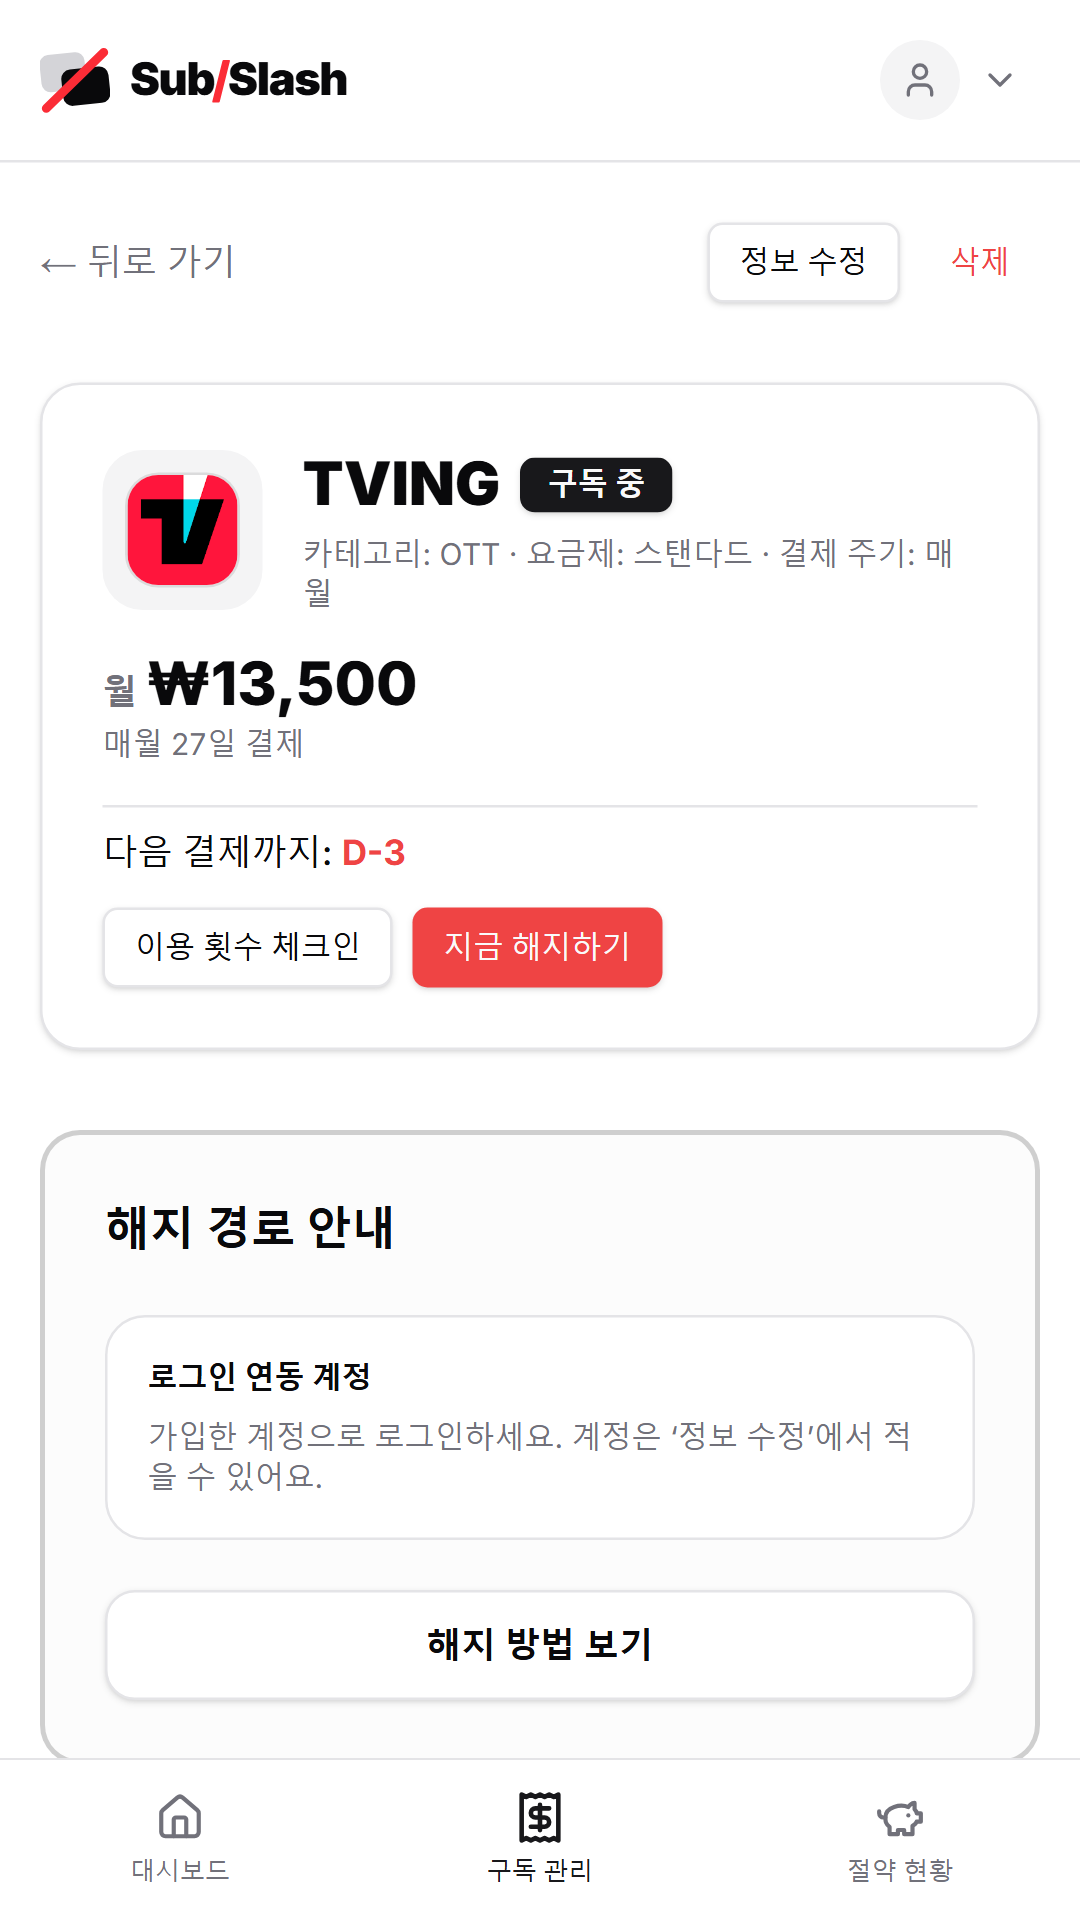
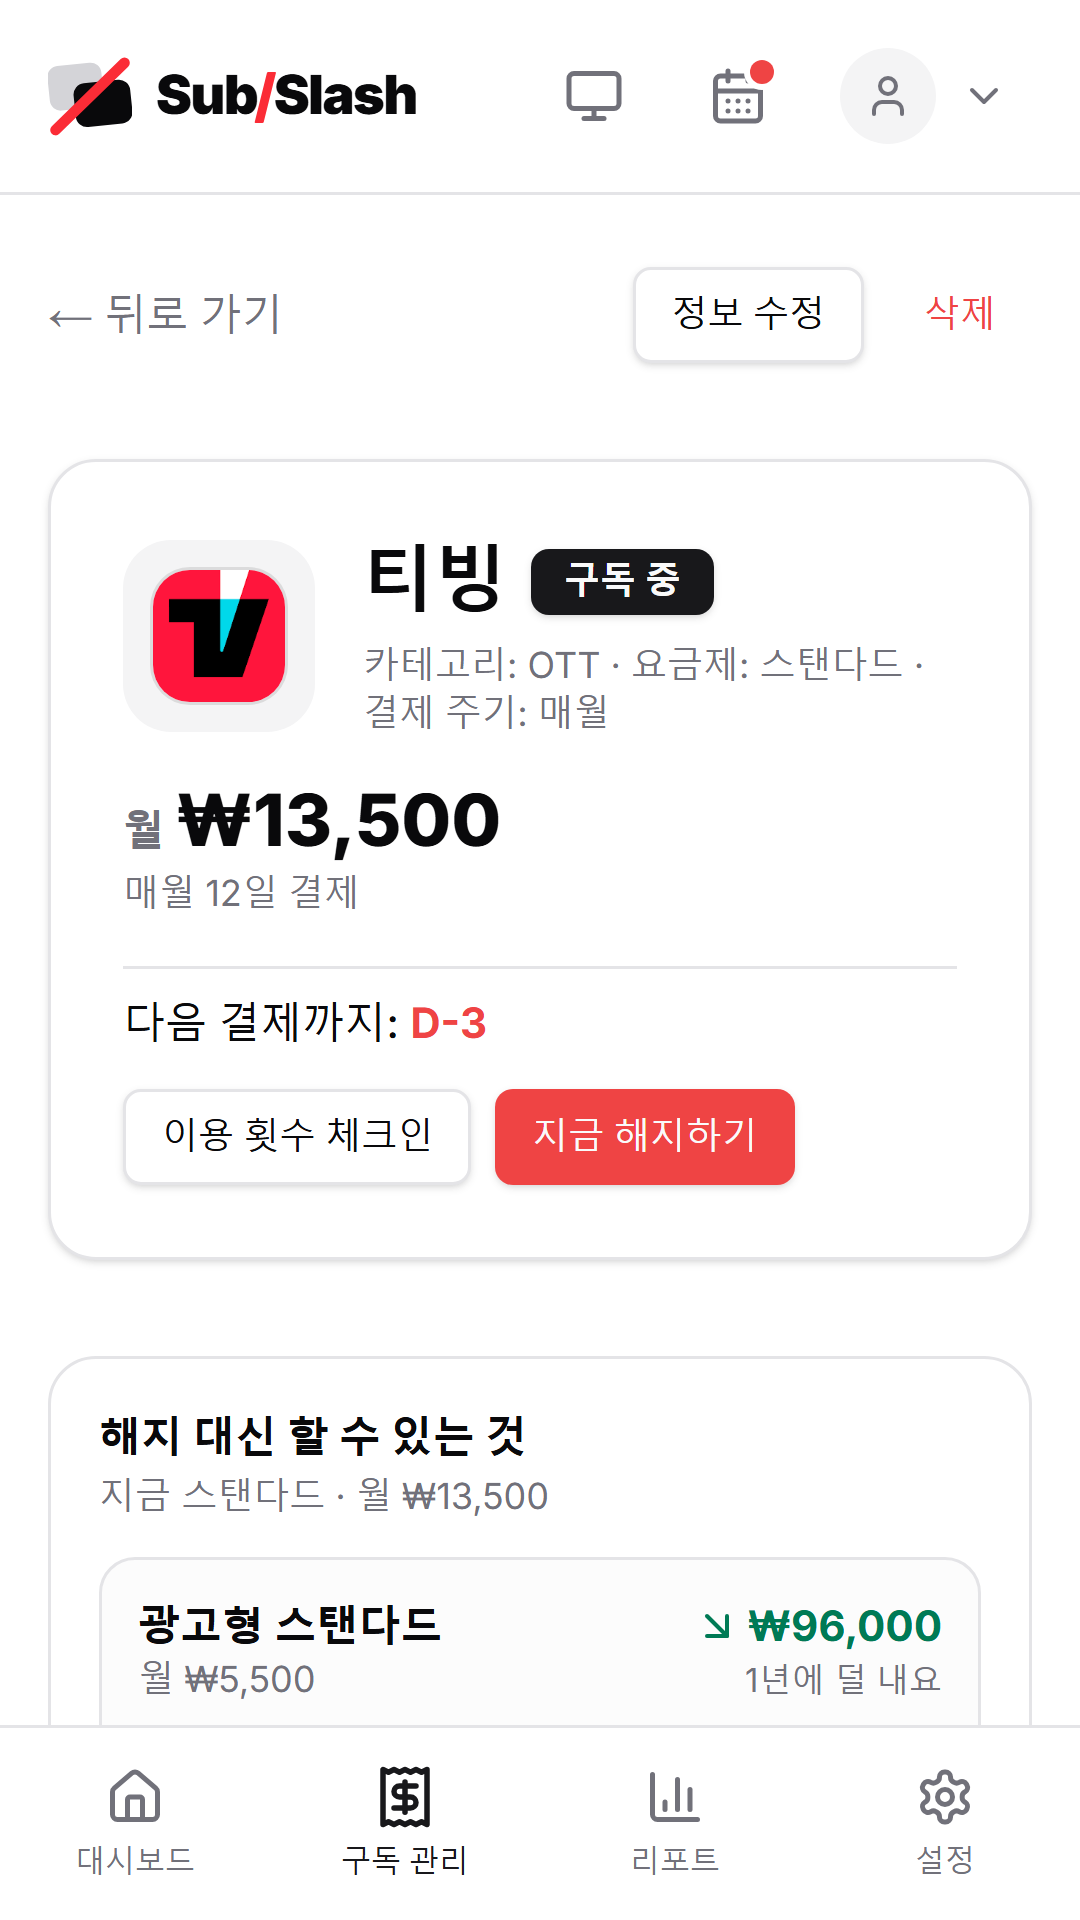
feat: 소개 페이지·앱 소개의 한국어 앱 캡처를 지금 화면으로 다시 찍기
한국어 캡처 4장은 예전 화면(하단 탭 '절약 현황', 이모지, 지금은 없는 '자동 불러오기' 버튼)으로 찍혀 있어
지금 앱과 달랐다. 영어판과 같은 스크립트·같은 예시 기록으로 다시 찍어 두 언어의 사진을 맞췄다.

- capture.ts: 한국어는 원래 자리(public/landing/)에 저장한다(--lang ko).
- 페이지를 새로 열 때마다 앱 시작 인트로(AppIntro)가 잠깐 덮어 사진에 겹쳤다 — 인트로가 사라진 뒤에 찍는다.
  영어 사진도 같은 조건으로 다시 찍었다.

diff --git a/apps/web/scripts/landing-screens/capture.ts b/apps/web/scripts/landing-screens/capture.ts
@@ -33,7 +33,9 @@ const arg = (name: string) => {
 };
 const LANG = arg("lang") === "ko" ? "ko" : "en";
 const ROOT = resolve(import.meta.dirname, "../../out");
-const OUT = resolve(import.meta.dirname, `../../public/landing/${LANG}`);
+// 한국어 캡처는 `public/landing/`, 영어는 `public/landing/en/`(components/home/screens의 landingScreen과 같은 자리).
+const OUT_DIR = LANG === "en" ? "public/landing/en" : "public/landing";
+const OUT = resolve(import.meta.dirname, "../..", OUT_DIR);
 const PORT = 4789;
 
 /* ---- 예시 기록 ---- */
@@ -189,9 +191,15 @@ async function main() {
   for (const [name, path] of shots) {
     await page.goto(`${origin}${path}`);
     await page.waitForLoadState("networkidle").catch(() => undefined);
-    await page.waitForTimeout(800);
+    // 페이지를 새로 열 때마다 앱 시작 인트로(AppIntro)가 잠깐 덮는다. 사라진 뒤에 찍는다.
+    await page
+      .waitForFunction(() => !document.querySelector('[class*="AppIntro"]'), undefined, {
+        timeout: 10_000,
+      })
+      .catch(() => undefined);
+    await page.waitForTimeout(600);
     await page.screenshot({ path: join(OUT, `${name}.png`) });
-    console.error(`찍음: public/landing/${LANG}/${name}.png`);
+    console.error(`찍음: ${OUT_DIR}/${name}.png`);
   }
 
   await browser.close();
